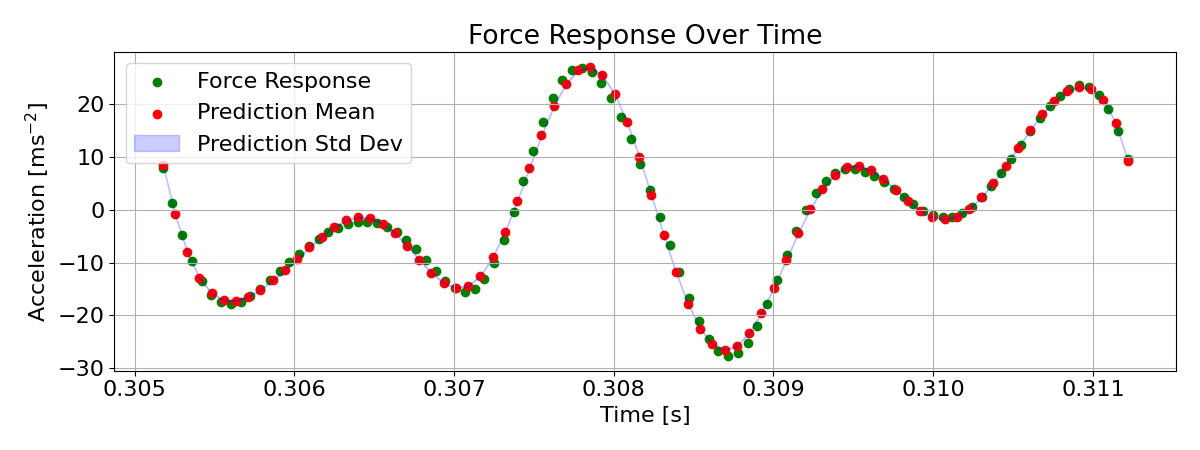
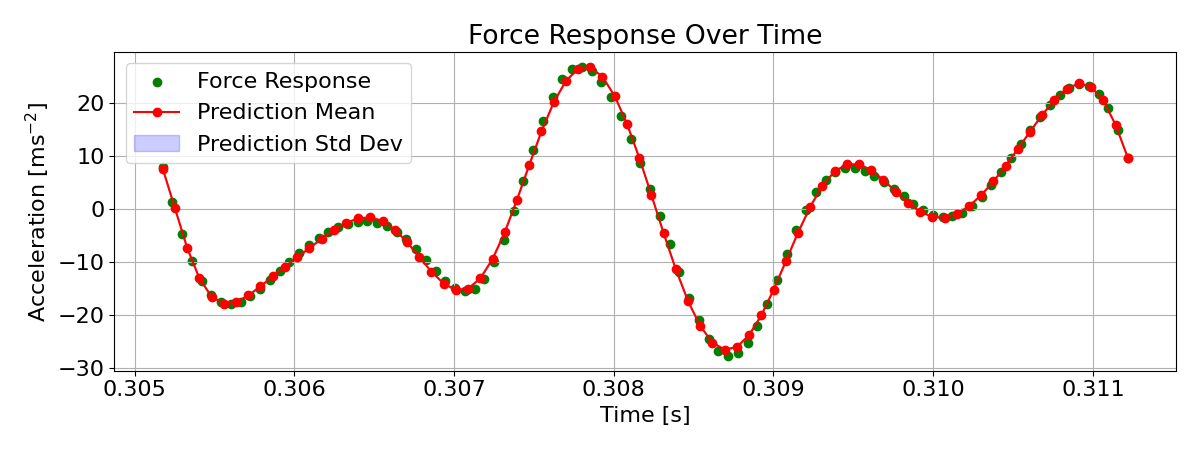
Changed Time domain predict plots to join up the dots

diff --git a/dissertation.tex b/dissertation.tex
@@ -118,6 +118,7 @@
     \includepdf[pages=1, frame, scale=1.09, pagecommand={}, offset=0 -35]{figures/titlepage.pdf}
 
     \section{Summary}
+    \textcolor{red}{rework the conclusion}
 
     \printnomenclature
 
@@ -126,9 +127,6 @@
     \newpage
 
     \pagenumbering{arabic}
-
-    \section{Acknowledgements}
-
 
     \section{Background and Understanding of the Problem}
 
@@ -231,7 +229,7 @@
     The decomposition of the input and response functions from the time domain to the frequency domain uses a linear operator called the Fourier Transform, $F(\xi)$, as defined in Equation~\ref{eq:ft}
 
     \begin{equation}
-        F(\xi) = \frac{1}{\sqrt{2 \pi}} \int_{-\infty}^{\infty} f(t) e^{-i \xi t} \, dt\label{eq:ft}
+        F(\xi) = \frac{1}{2 \pi} \int_{-\infty}^{\infty} f(t) e^{-i \xi t} \, dt\label{eq:ft}
     \end{equation}
     \nomenclature[L05]{$F(\xi)$}{Fourier Transform of $f(t)$}
     \nomenclature[G08]{$\xi$}{Angular frequency}
@@ -240,7 +238,7 @@
     \noindent where $\xi$ is the angular frequency and $f(t)$ is the time domain latent function being operated on.
     This is an extremely powerful analytical technique that is at the core of signal processing, which in turn is a set of techniques that are widely used in engineering to analyse, manipulate and interprete experimental data that changes over time in order to extract useful information or improve them for a specific purpose.
     However, for it to be applied in its base form to a function, this function must be defined for every point in time in the continuous domain $-\infty \text{ to } \infty$.
-    Therefore, when working with sampled real world data, an approximation of this function is classically found using a numerical method called a Discrete Fourier Transform, specifically the Fast Fourier Transform (FFT).
+    Therefore, when working with sampled real world data, an approximation of this function is classically found using a numerical method called a Discrete Fourier Transform (DFT), specifically the Fast Fourier Transform (FFT).
 
     \subsection{The Fast Fourier Transform Algorithm}
     Although discovering this fast way to compute the Discrete Fourier Transform revolutionised many engineering disciplines such as structural health monitoring, image compression, signal processing, and control theory~\cite{Byjus2023}, its implementation has a number of challenges that have to be carefully handled.
@@ -324,7 +322,7 @@
     \nomenclature[L03]{$\mathbf{D}$}{Training data}
     \nomenclature[G02]{$\boldsymbol{\theta}$}{Set of hyperparameters}
     \nomenclature[L14]{$\mathbf{K}_{\sigma}$}{Covariance matrix with noise term, $\mathbf{K}_{X,X} + \sigma^2_y \mathbf{I}$}
-    \nomenclature[L18]{$N$}{Number of training points}
+    \nomenclature[L18]{$N$}{Number of training or testing points}
 
     \noindent where $\mathbf{D}$ is the training data; $N$ is the number of training points; $\boldsymbol{\theta}$ is the set of hyperparameters and $\mathbf{K}_{\sigma} = \mathbf{K}_{X,X} + \sigma^2_y \mathbf{I}$ is the covariance matrix with the noise term.
     This measures how well the model explains the observed data for a given set of hyperparameters while penalizing complexity to avoid overfitting, which is when the model fits the training data so well that it generalises poorly to new test data.
@@ -479,7 +477,7 @@
     \subsection{Finding the Fourier Transform of the Mean}
     Next, the function for the Fourier Transform of the prediction of the mean was constructed, which could be evaluated at any set of points in the domain $(-\infty, \infty)$.
     This was done using a neat method described by Ambrogioni et al~\cite{Ambrogioni2018} which is equivalent to conditioning the joint distribution in Equation~\ref{eq:linear-trans} but instead takes the Fourier Transform of the time domain predictive mean function directly.
-    Remarkably, this only involves taking the Fourier Transform of the kernel, provided that first the Fourier shift theorem is applied to ensure that the kernel is a function of a single variable.
+    Remarkably, this involves taking the Fourier Transform of only the kernel, provided that the Fourier shift theorem is first applied to ensure that the kernel is a function of a single variable.
     This Fourier shift theorem can be applied to stationary kernels only, such as the Squared Exponential Kernel used in this paper, which has a Fourier Transform that can be found analytically and is shown in Equation~\ref{eq:se-kernel-ft}
 
     \begin{equation}
@@ -510,7 +508,7 @@
     \noindent its Fourier Transform is shown to be Equation~\ref{eq:mean-sum-freq-domain}.
 
     \begin{equation}
-        \mathcal{F}[{\mu}](\xi) = \mathcal{K}(\xi,0) \sum_k w_k \, e^{i \xi t_k} \label{eq:mean-sum-freq-domain}
+        \mathcal{F}[{\mu}](\xi) = \mathcal{K}(\xi,0) \sum_k w_k \, e^{- i \xi t_k} \label{eq:mean-sum-freq-domain}
     \end{equation}
 
     \subsection{Finding the Fourier Transform of the Covariance}
@@ -518,27 +516,31 @@
     The same steps can be used to derive the equation for the Fourier Transform of the function for the main diagonal of the Covariance Matrix when written in the form shown in Equation~\ref{eq:var-sum-time-domain}
 
     \begin{equation}
-        \Sigma(t) = k(t,t) - \sum_k v_k \, k(t,t_k) \label{eq:var-sum-time-domain}
+        \Sigma(t, t) = k(t,t) - \sum_k v_k \, k(t,t_k) \label{eq:var-sum-time-domain}
     \end{equation}
 
     \noindent where $v_k$ is defined in Equation~\ref{eq:v_k}
 
     \begin{equation}
-        v_k = \sum_j a_{kj} \, K(t,t_j) \label{eq:v_k}
+        v_k = \sum_j a_{kj} \, k(t,t_j) \label{eq:v_k}
     \end{equation}
 
     \noindent where $t_j$ is the $j^{th}$ element in the vector of training points $\mathbf{X}$.
 
     The resulting Fourier Transform can be written as shown in Equation~\ref{eq:var-sum-freq-domain}.
 
+%    \begin{equation}
+%        \mathcal{F}[\Sigma](\xi, \xi) = \frac{1}{2 \pi} e^{- i \xi^2} k(- \xi,0)  - \sum_k \sum_j a_{kj} \, e^{-i \xi (t_j - t_k)} \mathcal{K}(\xi,0)^2 \label{eq:var-sum-freq-domain}
+%    \end{equation}
+
     \begin{equation}
-        \mathcal{F}[\Sigma](\xi) = \frac{1}{2 \pi} e^{- i \xi^2} k(- \xi,0)  - \sum_k \sum_j a_{kj} \, e^{-i \xi (t_j - t_k)} \mathcal{K}(\xi,0)^2 \label{eq:var-sum-freq-domain}
+        \mathcal{F}[\Sigma](\xi, \xi) = \mathcal{K}(\xi,0) \delta(\xi - \xi)  - \sum_k \sum_j a_{kj} \, e^{-i \xi (t_j - t_k)} \mathcal{K}(\xi,0)^2 \label{eq:var-sum-freq-domain}
     \end{equation}
 
-    Note that $k(- \xi, 0)$ is the original time domain kernel since the Fourier Transform applied to a function twice is equivalent to the original function reflected about zero and scaled by dividing by $2 \pi$.
+%    Note that $k(- \xi, 0)$ is the original time domain kernel since the Fourier Transform applied to a function twice is equivalent to the original function reflected about zero and scaled by dividing by $2 \pi$.
 
-    This method was only able to produce the main diagonal of the covariance matrix, not the whole matrix, but this was sufficient since hyperparameter training was completed in the time domain already, and only the main diagonal was required to plot the standard deviation of the output predictions (which is the square root of this main diagonal).
-    In fact, only calculating the main diagonal was preferred since it decreased the compute requirements significantly.
+    Only the Fourier Transform of the main diagonal of the covariance matrix was computed because hyperparameter training (which would require the full matrix) was completed in the time domain already, and only the diagonal is required to plot the standard deviation of the output predictions (which is the square root of the covariance).
+    This decreased the compute requirements significantly, from $O(N^2)$ to $O(N)$, where N is the number of frequency predictions required.
 
 
 
@@ -566,7 +568,7 @@
     Next, the amplitude and frequency of the peak was compared to the exact simulated value for each.
     The \textcolor{red}{GP was shown to be better, with an error in wn of xxx versus xxx for the FFT}
 
-    A more accurate Fourier Transform allows for more accurate Frequency Response Functions, which would have widespread benefits in Mechanical Engineering.
+    A more accurate Fourier Transform allows for more accurate Frequency Response Functions, which would have widespread benefits in mechanical engineering.
     After the FRF of a structure, such as a wind turbine tower, is determined, it can be evaluated with the same forces that the system is expected to experience to predict the maximum amplitude of vibration expected during its lifetime.
     If this is excessive, the system is at risk of mechanical failure so the design can be changed to preventative this.
     For example, the mass could be changed to move the resonant frequency away from the expected forcing frequency, reducing the expected amplitude of oscillation.
@@ -597,16 +599,14 @@
 
     \textcolor{red}{For this dataset, the covariance function was nearly zero amplitude at all frequencies except for a narrow spike around zero frequency between -xxx and xxx rad/s, reaching a maximum of xxx at - rad/s.
     This spike around zero makes intuitive sense because the amplitude of very low frequencies, the number of cycles they will experience in a given time period will tend to zero so there will be limited data to deduce the magnitude.
-    However,
-    }
-
-    The fact that the standard deviation frequency domain amplitude predictions are near zero for all other frequencies suggests that the Fourier Transform is defined precisely, although the accuracy depends on how well the GP fits the time domain data.
+    However,...
+    The fact that the standard deviation frequency domain amplitude predictions are near zero for all other frequencies suggests that the Fourier Transform is defined precisely, although the accuracy depends on how well the GP fits the time domain data.}
 
     \subsection{Robustness to Noise}
     The robustness to noise was also compared (Objective~\ref{noise-resilience}) by seeing by how much each MSE increased when noise was added.
     The \textcolor{red}{GP was shown to have better robustness to noise, with an error in wn of xxx versus xxx for the FFT}
 
-    A Fourier Transform that is more robust to noise would be more accurate and therefore would be beneficial in the context of Mechanical Engineering as explained in Section~\ref{Acc}, but would also improve other areas of engineering where it is used extensively such as control theory, signal processing, image processing, and acoustic engineering.
+    A Fourier Transform that is more robust to noise would be more accurate and therefore would be beneficial in the context of mechanical engineering as explained in Section~\ref{Acc}, but would also improve other areas of engineering where it is used extensively such as control theory, signal processing, image processing, and acoustic engineering.
     In these contexts, it is used to simplify a computationally expensive operation in the time domain called a convolution into a simple pointwise multiplication in the frequency domain.
     Therefore, this improvement would enhance operations like signal filtering, image edge detection and acoustic noise reduction by reducing the distortion that occurs during these operations due to the presence of noise in the input data.
 
@@ -621,7 +621,7 @@
     \textcolor{red}{For instance, using only the first [N] points of the dataset above the error in wn and amplitude is xxx and xxx respectively, compared to xxx and xxx for the FFT, showing that the GP calculated the wn performs significantly better}
     This means that this proposed GP model may be best suited to designs in which there is limited time for testing, such as in the aforementioned example of hypersonic wind tunnel tests of scramjets.
 
-    \subsection{Non-Uniform Sampling of the Time Domain and Overcoming the Nyquist Limit}
+    \subsection{Non-Uniform Sampling of the Time Domain and Overcoming Aliasing and the Nyquist Limit}
     Similarly, the time domain input data need not be uniformly spaced in order to fit the GP.
     This would allow the model to be used to find the Fourier Transform of datasets with missing data, which may occur, for example, if accelerometers placed on gas turbine engines during a test fail to transmit data for a period of time due to a loose connection.
     If enough data is still present to faithfully represent the system, the GP will not be significantly affected, which would allow the test data to still be used, whereas if the standard FFT was used, the data would not be suitable and therefore the test would need to repeated, which could be highly costly.
@@ -638,6 +638,9 @@
     This could include Fourier analysis of accelerometer data to monitor vibration in the frequency domain.
     However, the memory available to do this is limited because added memory adds weight, every gram of which can significantly increase fuel requirements and cost to get the satellite to orbit.
     Therefore, this ability to detect higher frequencies than an equivalent FFT using the same amount of data and memory would make the new GP method of performing the Fourier Transform would be valuable here.
+
+    Another aliasing issue of FFT, spectral leakage, is avoided in the GP model due to the fact that the prediction functions are not assumed to be periodic, but continuous throughout the domain $(-\infty, \infty)$.
+    Therefore, windowing is not required to prevent this spectral leakage, as would be in the FFT, reducing the total number of steps required which would otherwise add computational cost and perhaps an opportunity for human bias to be introduced when choosing the type of window.
 
     \section{Directions for Future Work}
 
@@ -660,10 +663,10 @@
     \textcolor{red}{ New kernel types; multi degree of freedom / dimension GP's!!!!; different solver types? etc.}
 
     \section{Conclusions}
-    Overall, when compared to the industry standard Fast Fourier Transform (FFT), the alternative Gaussian Process (GP) model proposed showed \textcolor{red}{better??} robustness to noise as well as several promising features that make it more versatile.
+    Overall, when compared to the industry standard Fast Fourier Transform (FFT), the proposed alternative Gaussian Process (GP) model showed \textcolor{red}{better??} robustness to noise as well as several promising features that make it more versatile in the context of dynamic systems in mechanical engineering.
     Most notably, the fact that the time domain input data need not be evenly spaced enables the model to detect frequencies that would be above the Nyquist limit of an equivalent FFT of the same number of datapoints sampled evenly across the same time period.
-    This gives the model the potential to exceed the performance of the FFT in industrial contexts where there are constraints to the amount of data that can be collected due to cost or availability.
-    However, the computational speed of this model is currently orders of magnitude slower than the FFT, so before the GP model can be a viable alternative to the FFT in practice, it would need to be developed to scale better to large datasets.
+    This gives the model potential to exceed the performance of the FFT in industrial contexts where there are constraints to the amount of data that can be collected due to cost or availability.
+    However, the computational speed of this GP model is currently orders of magnitude slower than the FFT, so before it can be a viable alternative to the FFT in practice, it would need to be developed to scale better to large datasets.
     This could be done by implementing a sparse GP approximation such as the variational free energy (VFE) approach~\cite{murphy2023probabilistic}.
 
     \FloatBarrier
